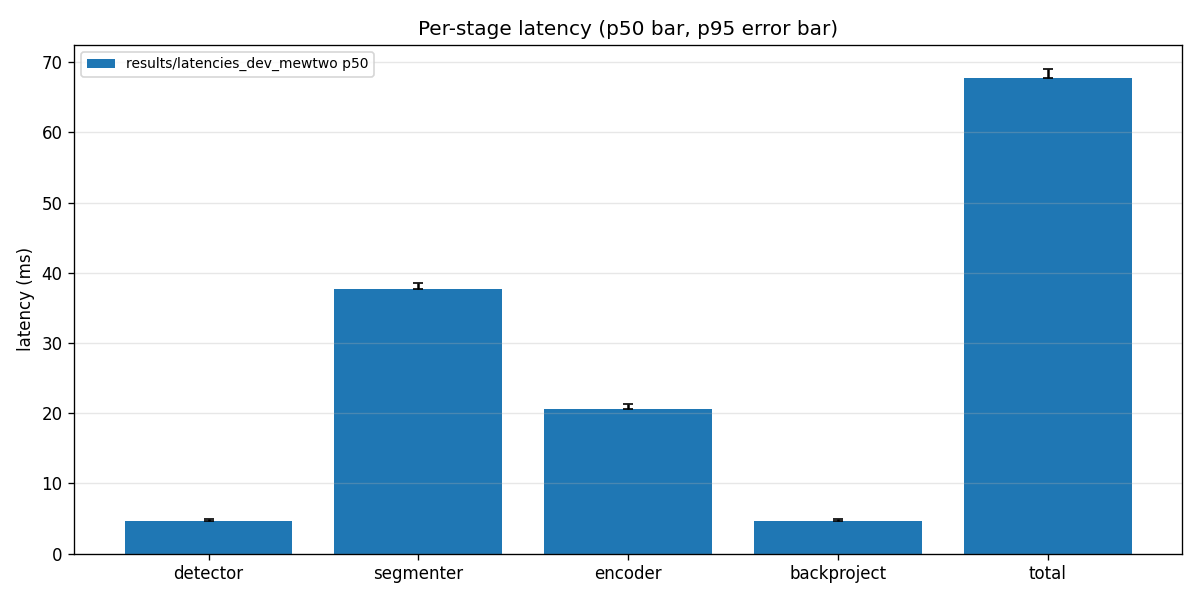
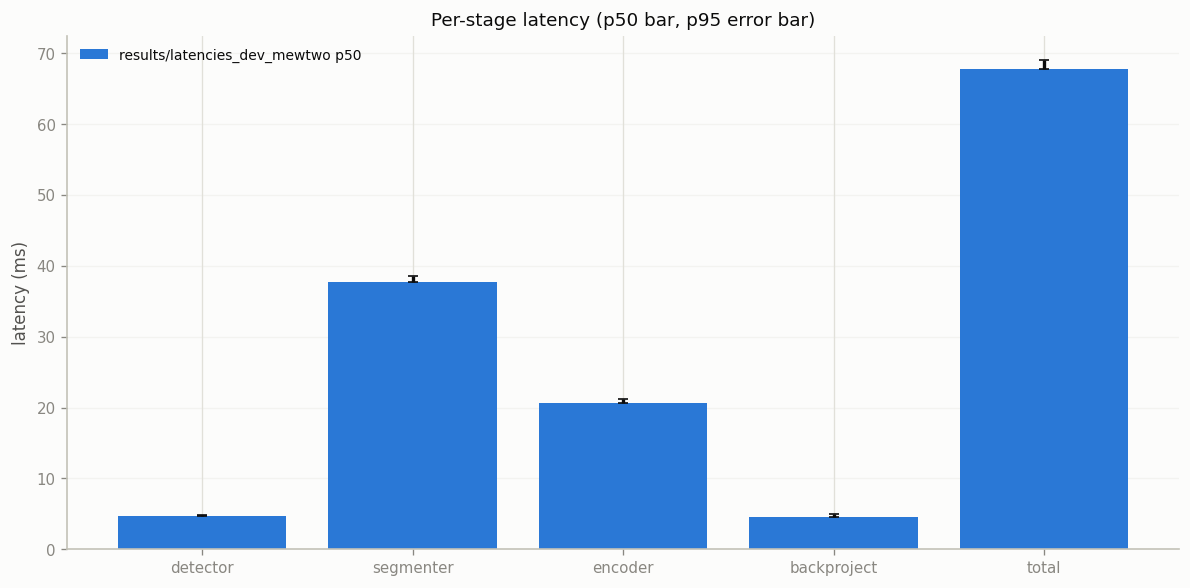
Theme all figures to physx-newton-bench editorial style

diff --git a/scripts/make_figures.py b/scripts/make_figures.py
@@ -27,6 +27,8 @@ try:
 
     matplotlib.use("Agg")
     import matplotlib.pyplot as plt
+    import physx_style as _physx_style  # editorial-print theme
+    _physx_style.apply()
 except ImportError:
     raise SystemExit("matplotlib required: pip install matplotlib")
 
@@ -55,10 +57,11 @@ def plot_latency_per_stage(latency_files: dict[str, dict], out: Path) -> None:
         p50 = [stats.get(s, {}).get("p50", 0.0) for s in stages]
         p95 = [stats.get(s, {}).get("p95", 0.0) for s in stages]
         offset = width * (i - len(platforms) / 2 + 0.5)
-        ax.bar([xi + offset for xi in x], p50, width=width, label=f"{label} p50")
+        ax.bar([xi + offset for xi in x], p50, width=width, label=f"{label} p50",
+               color=_physx_style.cmap_cycle(len(platforms))[i])
         ax.errorbar([xi + offset for xi in x], p50,
                     yerr=[[0] * len(stages), [a - b for a, b in zip(p95, p50)]],
-                    fmt="none", ecolor="black", capsize=3)
+                    fmt="none", ecolor=_physx_style.INK, capsize=3)
     ax.set_xticks(x)
     ax.set_xticklabels([s.replace("latency_", "").replace("_ms", "") for s in stages])
     ax.set_ylabel("latency (ms)")
@@ -136,17 +139,21 @@ def plot_thermal(thermal_csv: Path, out: Path) -> None:
     temp = _col("gpu_temp_c")
     util = _col("gpu_util_pct")
 
+    color_hz = _physx_style.COLORS["physx"]
+    color_temp = _physx_style.COLORS["newton"]
+    color_util = _physx_style.PALETTE[2]
+
     fig, ax1 = plt.subplots(figsize=(10, 5))
-    ax1.plot(t, hz, "g-", label="detection Hz")
+    ax1.plot(t, hz, "-", color=color_hz, label="detection Hz")
     ax1.set_xlabel("elapsed (s)")
-    ax1.set_ylabel("detection Hz", color="g")
-    ax1.tick_params(axis="y", labelcolor="g")
+    ax1.set_ylabel("detection Hz", color=color_hz)
+    ax1.tick_params(axis="y", labelcolor=color_hz)
     ax1.grid(alpha=0.3)
     ax2 = ax1.twinx()
-    ax2.plot(t, temp, "r-", label="GPU temp (°C)")
-    ax2.plot(t, util, "b--", label="GPU util (%)", alpha=0.5)
-    ax2.set_ylabel("GPU temp / util", color="r")
-    ax2.tick_params(axis="y", labelcolor="r")
+    ax2.plot(t, temp, "-", color=color_temp, label="GPU temp (°C)")
+    ax2.plot(t, util, "--", color=color_util, label="GPU util (%)", alpha=0.7)
+    ax2.set_ylabel("GPU temp / util", color=color_temp)
+    ax2.tick_params(axis="y", labelcolor=color_temp)
     lines = ax1.get_lines() + ax2.get_lines()
     ax2.legend(lines, [ln.get_label() for ln in lines], loc="upper right")
     ax1.set_title("Jetson thermal soak")

diff --git a/scripts/physx_style.py b/scripts/physx_style.py
@@ -1,0 +1,34 @@
+"""Editorial-print figure theme shared across projects.
+
+Source of truth: physx-newton-bench. One line to adopt:
+
+    import physx_style; physx_style.apply()
+
+Then plot as usual; every figure inherits the cream canvas, muted frame,
+and the physx-blue / newton-green palette. `PALETTE` and `COLORS` are
+exposed for scripts that need an explicit per-series color.
+"""
+import os
+import matplotlib.pyplot as plt
+
+_STYLE = os.path.join(os.path.dirname(os.path.abspath(__file__)), "physx_style.mplstyle")
+
+# Editorial-print ink used for annotations/titles when set explicitly.
+INK = "#0b0b0b"
+CREAM = "#fcfcfb"
+PALETTE = ["#2a78d6", "#1baf7a", "#d08a2e", "#b0472b", "#6a5acd", "#52514e"]
+# Canonical two-backend mapping (physx-newton-bench).
+COLORS = {"physx": "#2a78d6", "newton": "#1baf7a"}
+
+
+def apply():
+    """Activate the shared style. Safe to call more than once."""
+    plt.style.use(_STYLE)
+
+
+def cmap_cycle(n):
+    """n categorical colors from the editorial palette (drop-in for plt.cm.tabX).
+
+    Returns a list of hex strings, wrapping the palette if n exceeds its length.
+    """
+    return [PALETTE[i % len(PALETTE)] for i in range(int(n))]
